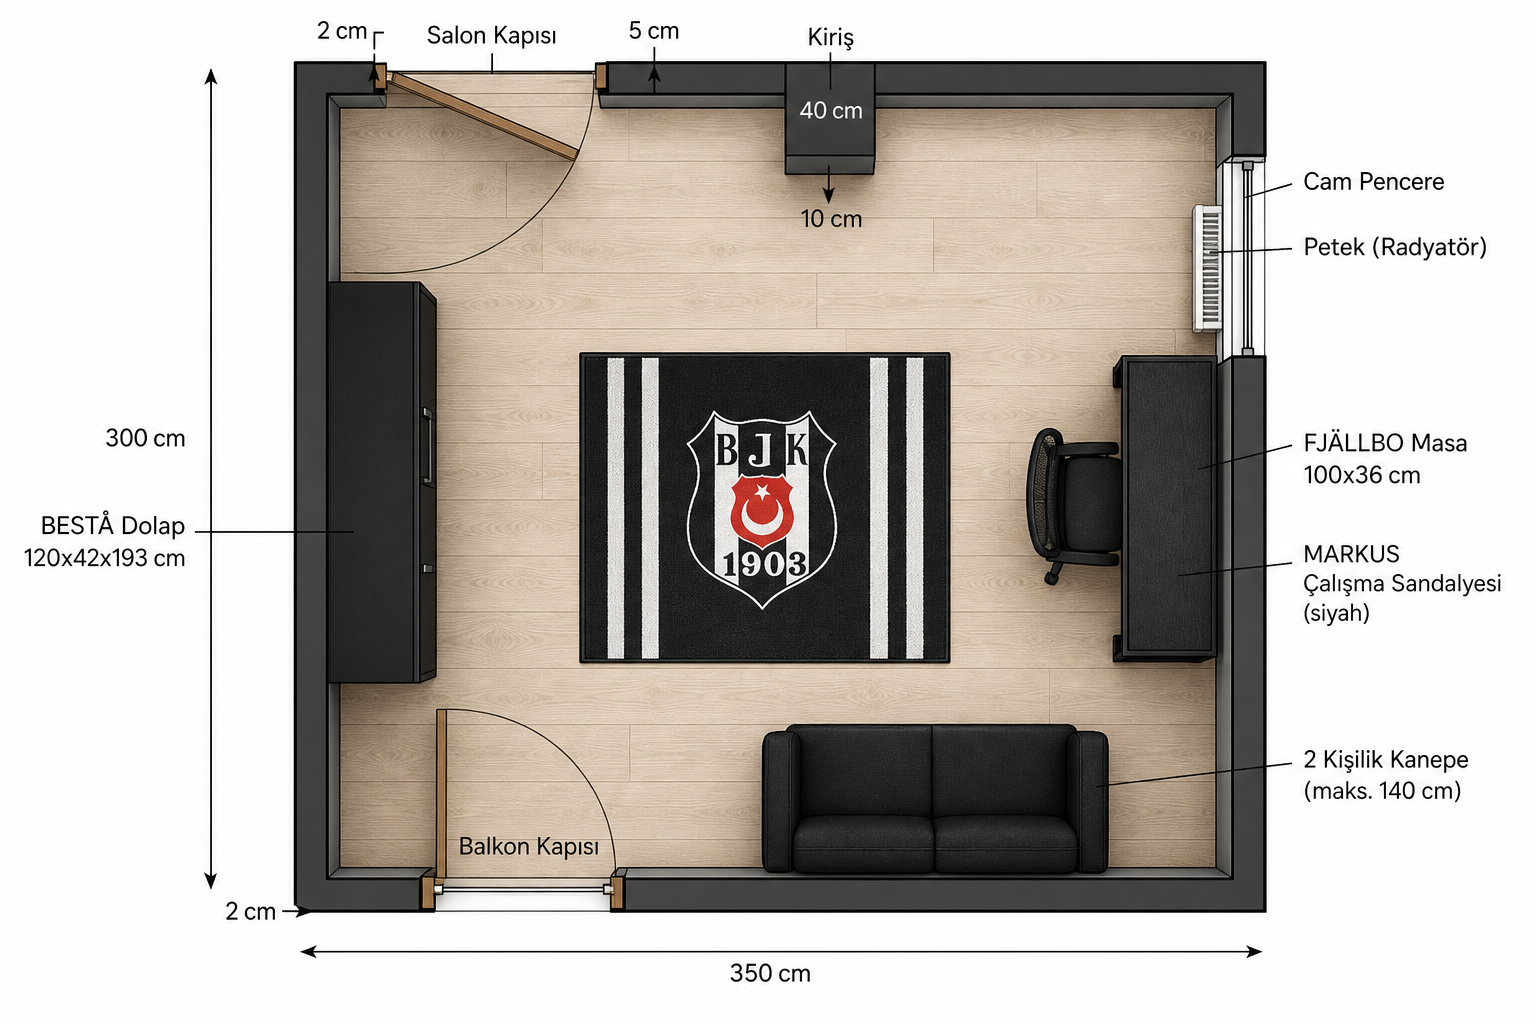
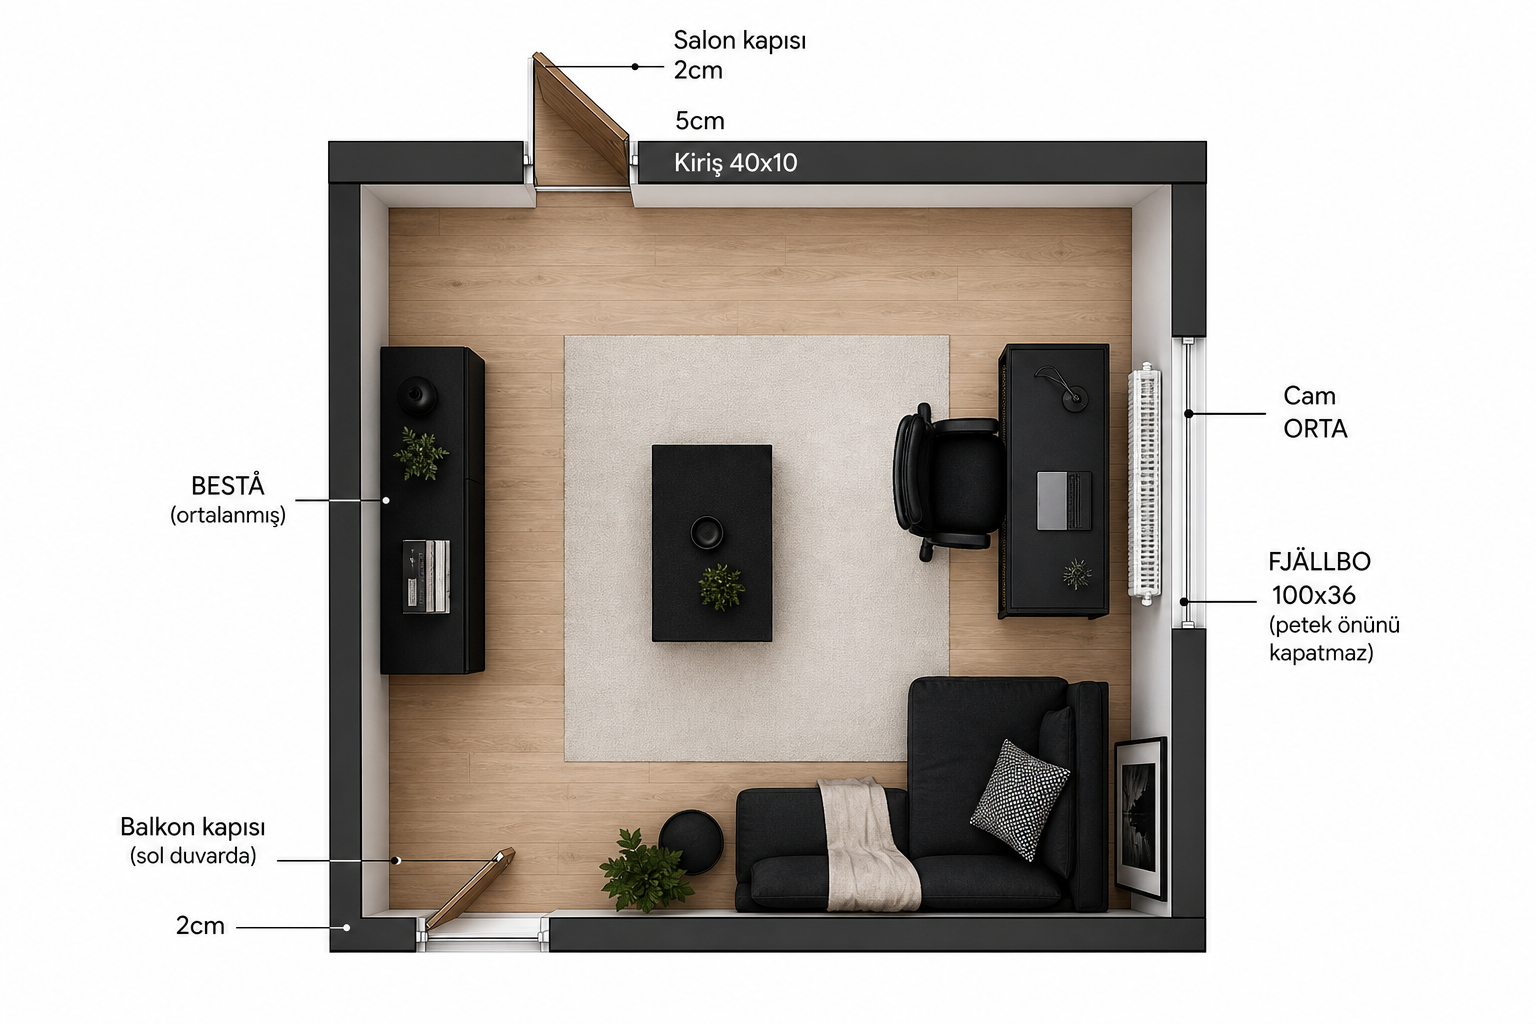
Lock kiriş 5cm from salon door and center cam on right wall
Balcony door stays 2cm from left wall; desk placement uses equal
bands above/below the centered window-radiator block.

diff --git a/oda-tasarim/index.html b/oda-tasarim/index.html
@@ -56,26 +56,33 @@
         </p>
       </aside>
 
+      <div class="sketch-legend">
+        <div class="sketch-legend__item"><strong>ÜST</strong><span>2 cm → Salon Kapısı → <b>5 cm</b> → Kiriş 40×10 (kapıya bitişik tarafta)</span></div>
+        <div class="sketch-legend__item"><strong>ALT</strong><span>Sol duvar ↔ Balkon Kapısı arası <b>2 cm</b></span></div>
+        <div class="sketch-legend__item"><strong>SAĞ</strong><span>Cam + Petek = duvarın <b>tam ortası</b> (üst/alt pay eşit)</span></div>
+        <div class="sketch-legend__item"><strong>SOL</strong><span>Düz duvar · kapı salınımları köşede</span></div>
+      </div>
+
       <div class="inventory">
         <article class="inv">
           <span class="inv__tag">ÜST</span>
-          <h3>2 → Salon → 5 → Kiriş 40×10</h3>
-          <p>Kapı sola doğru içeri açılır. Kiriş sığ çıkıntı. Bu hatta mobilya yok.</p>
+          <h3>Salon → 5 cm → Kiriş</h3>
+          <p>Kiriş kapıya doğru: kapı kasası ile kiriş arası ölçülen <strong>5 cm</strong>. Kiriş 40 cm hat, içe 10 cm. Bu hatta mobilya yok.</p>
         </article>
         <article class="inv">
           <span class="inv__tag">SAĞ</span>
-          <h3>Cam + Petek</h3>
-          <p>Masa <strong>peteğin üzerine gelmez</strong>. Peteğin altına veya üstüne kalan düz duvar bandına.</p>
+          <h3>Cam tam ortada</h3>
+          <p>Cam (petek altında) sağ duvarın <strong>geometrik ortasında</strong>. Masa peteğin önüne gelmez; ortadaki cam-petek bloğunun <strong>altındaki</strong> veya <strong>üstündeki</strong> eşit bantlardan birine.</p>
         </article>
         <article class="inv">
           <span class="inv__tag">ALT</span>
-          <h3>2 → Balkon</h3>
-          <p>Kapı sola doğru içeri açılır. Sağ taraftaki uzun alt duvar oturmaya uygun.</p>
+          <h3>Balkon · soldan 2 cm</h3>
+          <p>Sol duvar ile balkon kapısı arası <strong>2 cm</strong>. Kapı sola içeri açılır; oturma balkonun sağında.</p>
         </article>
         <article class="inv">
           <span class="inv__tag">SOL</span>
-          <h3>Düz duvar ama salınım var</h3>
-          <p>İki kapı da sola açıldığı için sol üst ve sol alt köşe yay alanı. Dolap <strong>ortada</strong>, köşelerden kapı eni kadar uzak.</p>
+          <h3>Düz duvar</h3>
+          <p>BESTÅ ortada; üst/alt kapı salınım yaylarından uzak.</p>
         </article>
       </div>
     </section>
@@ -100,10 +107,11 @@
         <article class="zone">
           <div class="zone__num">A</div>
           <h3>Masa — sağ duvar, petek DIŞI</h3>
-          <p>1) Peteğin alt kenarından aşağı doğru kalan düz duvar boyunu ölç.<br>
-          2) Peteğin üst kenarından yukarı (cam altı / üst duvar arası) ölç.<br>
-          3) Hangisi ≥ 110 cm ise oraya <strong>FJÄLLBO 100×36</strong> koy.<br>
-          4) İkisi de &lt; 110 cm ise masa almadan önce yaz — 140’lık alma.</p>
+          <p>Cam sağ duvarın <strong>ortasında</strong> → üst ve alt pay yaklaşık eşit.<br>
+          1) Cam-petek bloğunun <strong>altından</strong> sağ-alt köşeye cm ölç.<br>
+          2) Cam-petek bloğunun <strong>üstünden</strong> sağ-üst köşeye cm ölç.<br>
+          3) ≥ 110 cm olan banda <strong>FJÄLLBO 100×36</strong> (tercihen alt bant — priz/kablo kolay).<br>
+          4) İkisi de kısa ise 140’lık alma; yaz.</p>
         </article>
         <article class="zone">
           <div class="zone__num">B</div>

diff --git a/oda-tasarim/SIPARIS.md b/oda-tasarim/SIPARIS.md
@@ -1,32 +1,21 @@
-# 1903 — Sipariş brifi (krokiye kilitli)
+# 1903 — Sipariş brifi
 
-## Kaynak plan
-`guncel-plan.png`
+## Sabit plan (güncel)
+- **Üst:** `2 cm → Salon Kapısı → 5 cm → Kiriş 40×10 cm` (kiriş kapıya doğru, arada 5 cm)
+- **Alt:** Sol duvar ↔ **Balkon Kapısı = 2 cm**
+- **Sağ:** **Cam + Petek = duvarın tam ortası**
+- **Sol:** düz duvar
 
-- Üst: `2 cm → Salon Kapısı → 5 cm → Kiriş 40×10 cm`
-- Sağ: Cam + Petek
-- Alt: `2 cm → Balkon Kapısı`
-- Sol: düz duvar (kapılar sola açılır → köşe salınımı)
+Plan görseli: `assets/plan-net-orta-cam.png` (= `guncel-plan.png`)
+
+## Masa yeri
+Cam ortada → masa peteğin **önüne değil**, ortadaki cam-petek bloğunun **alt** veya **üst** bandına.  
+Ölç: alt bant ve üst bant cm. ≥110 cm → FJÄLLBO 100×36 (303.397.35).
 
 ## Bugün alınabilir
-| Sıra | Ürün | Kod | Not |
-|------|------|-----|-----|
-| 1 | FJÄLLBO masa 100×36 siyah | 303.397.35 | Petek **üstüne değil**, alt/yan bant. Yanı ≥110 cm ölç. |
-| 2 | MARKUS sandalye koyu gri | 702.611.50 | Masayla |
-| 3 | BESTÅ 120×42×193 venge-siyah | 590.594.61 | Sol duvar **ortası**, salınımlardan uzak |
-
-## Ölçünce al
-- Oturma ≤140 cm — alt duvar, balkonun **sağı**
-- Siyah stor — cam enine göre
-- FJÄLLBO 140×70 — sadece petek yanı ≥155 cm ise
+1. FJÄLLBO 100×36 — 303.397.35  
+2. MARKUS koyu gri — 702.611.50  
+3. BESTÅ 120×42×193 — 590.594.61 (sol duvar ortası)
 
 ## Boya
-- Duvar: Filli Boya **Andezit 15** (veya 10), Momento Max/Silan, soft mat
-- Kiriş: aynı renk (önerilen) veya sadece çıkıntıda mat siyah
-- Kapı/pervaz: beyaz kalsın
-
-## Sakın
-- Peteğin önüne masa
-- Sol köşeye dolap (kapı salınımı)
-- “FJÄLLBO kanepe” (yok)
-- Forma/armalı zorunlu dekor
+Filli Boya Andezit 15 · Momento Max/Silan soft mat · kiriş aynı veya sadece çıkıntıda mat siyah
